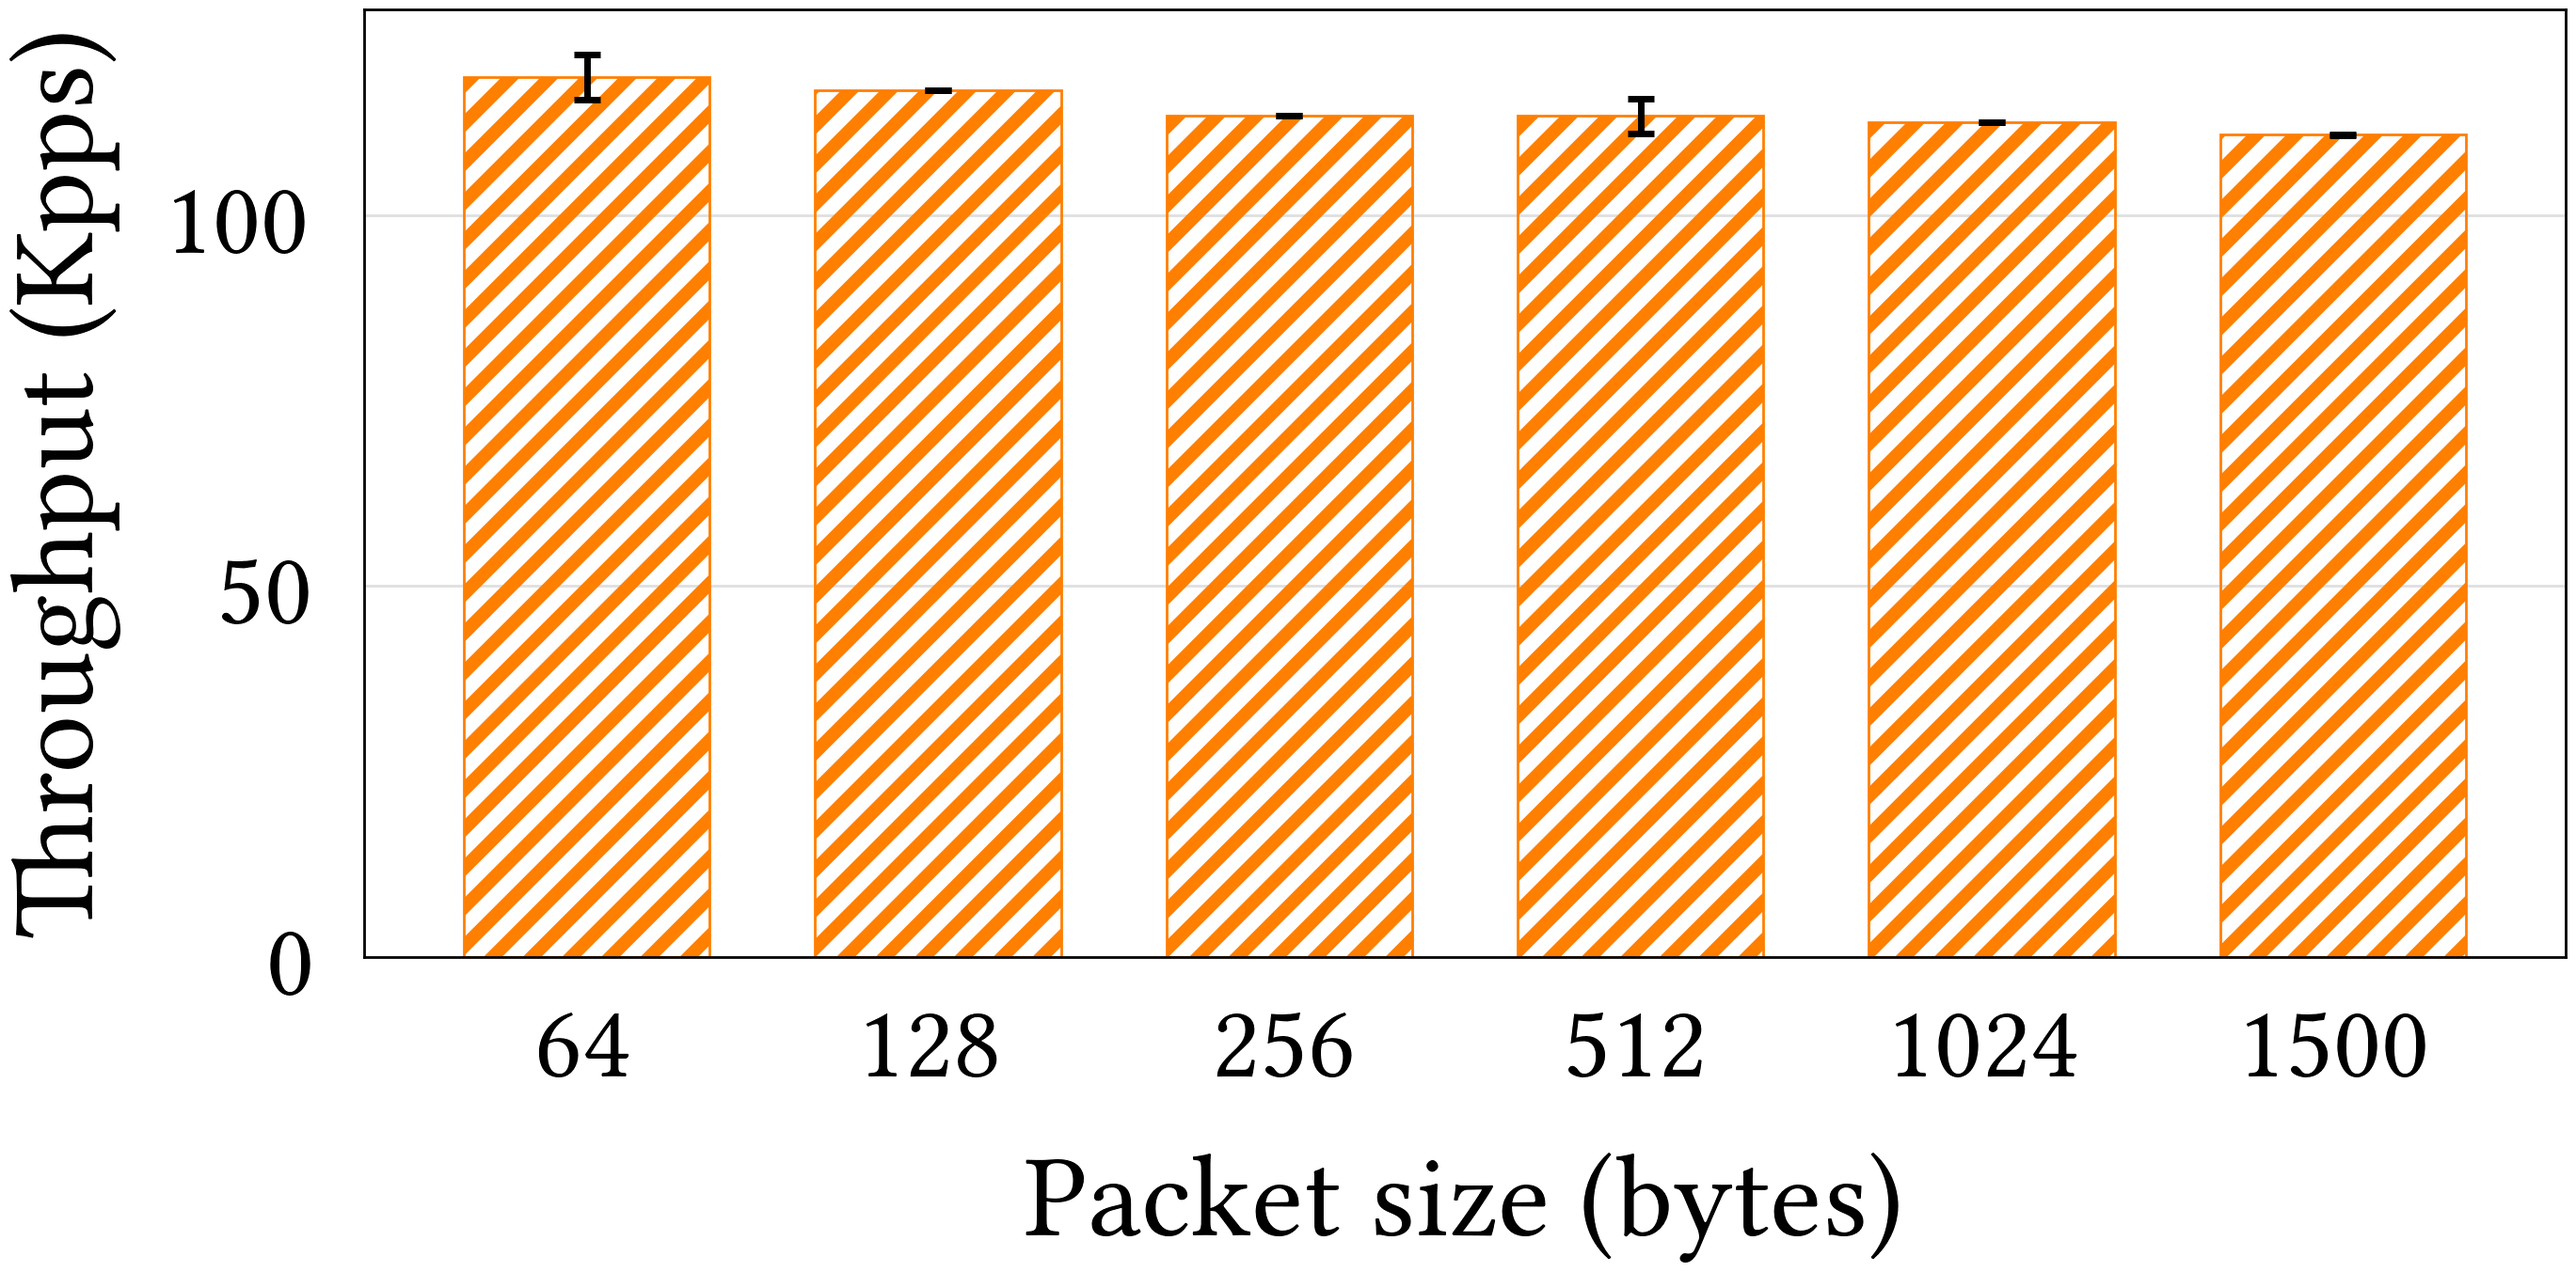
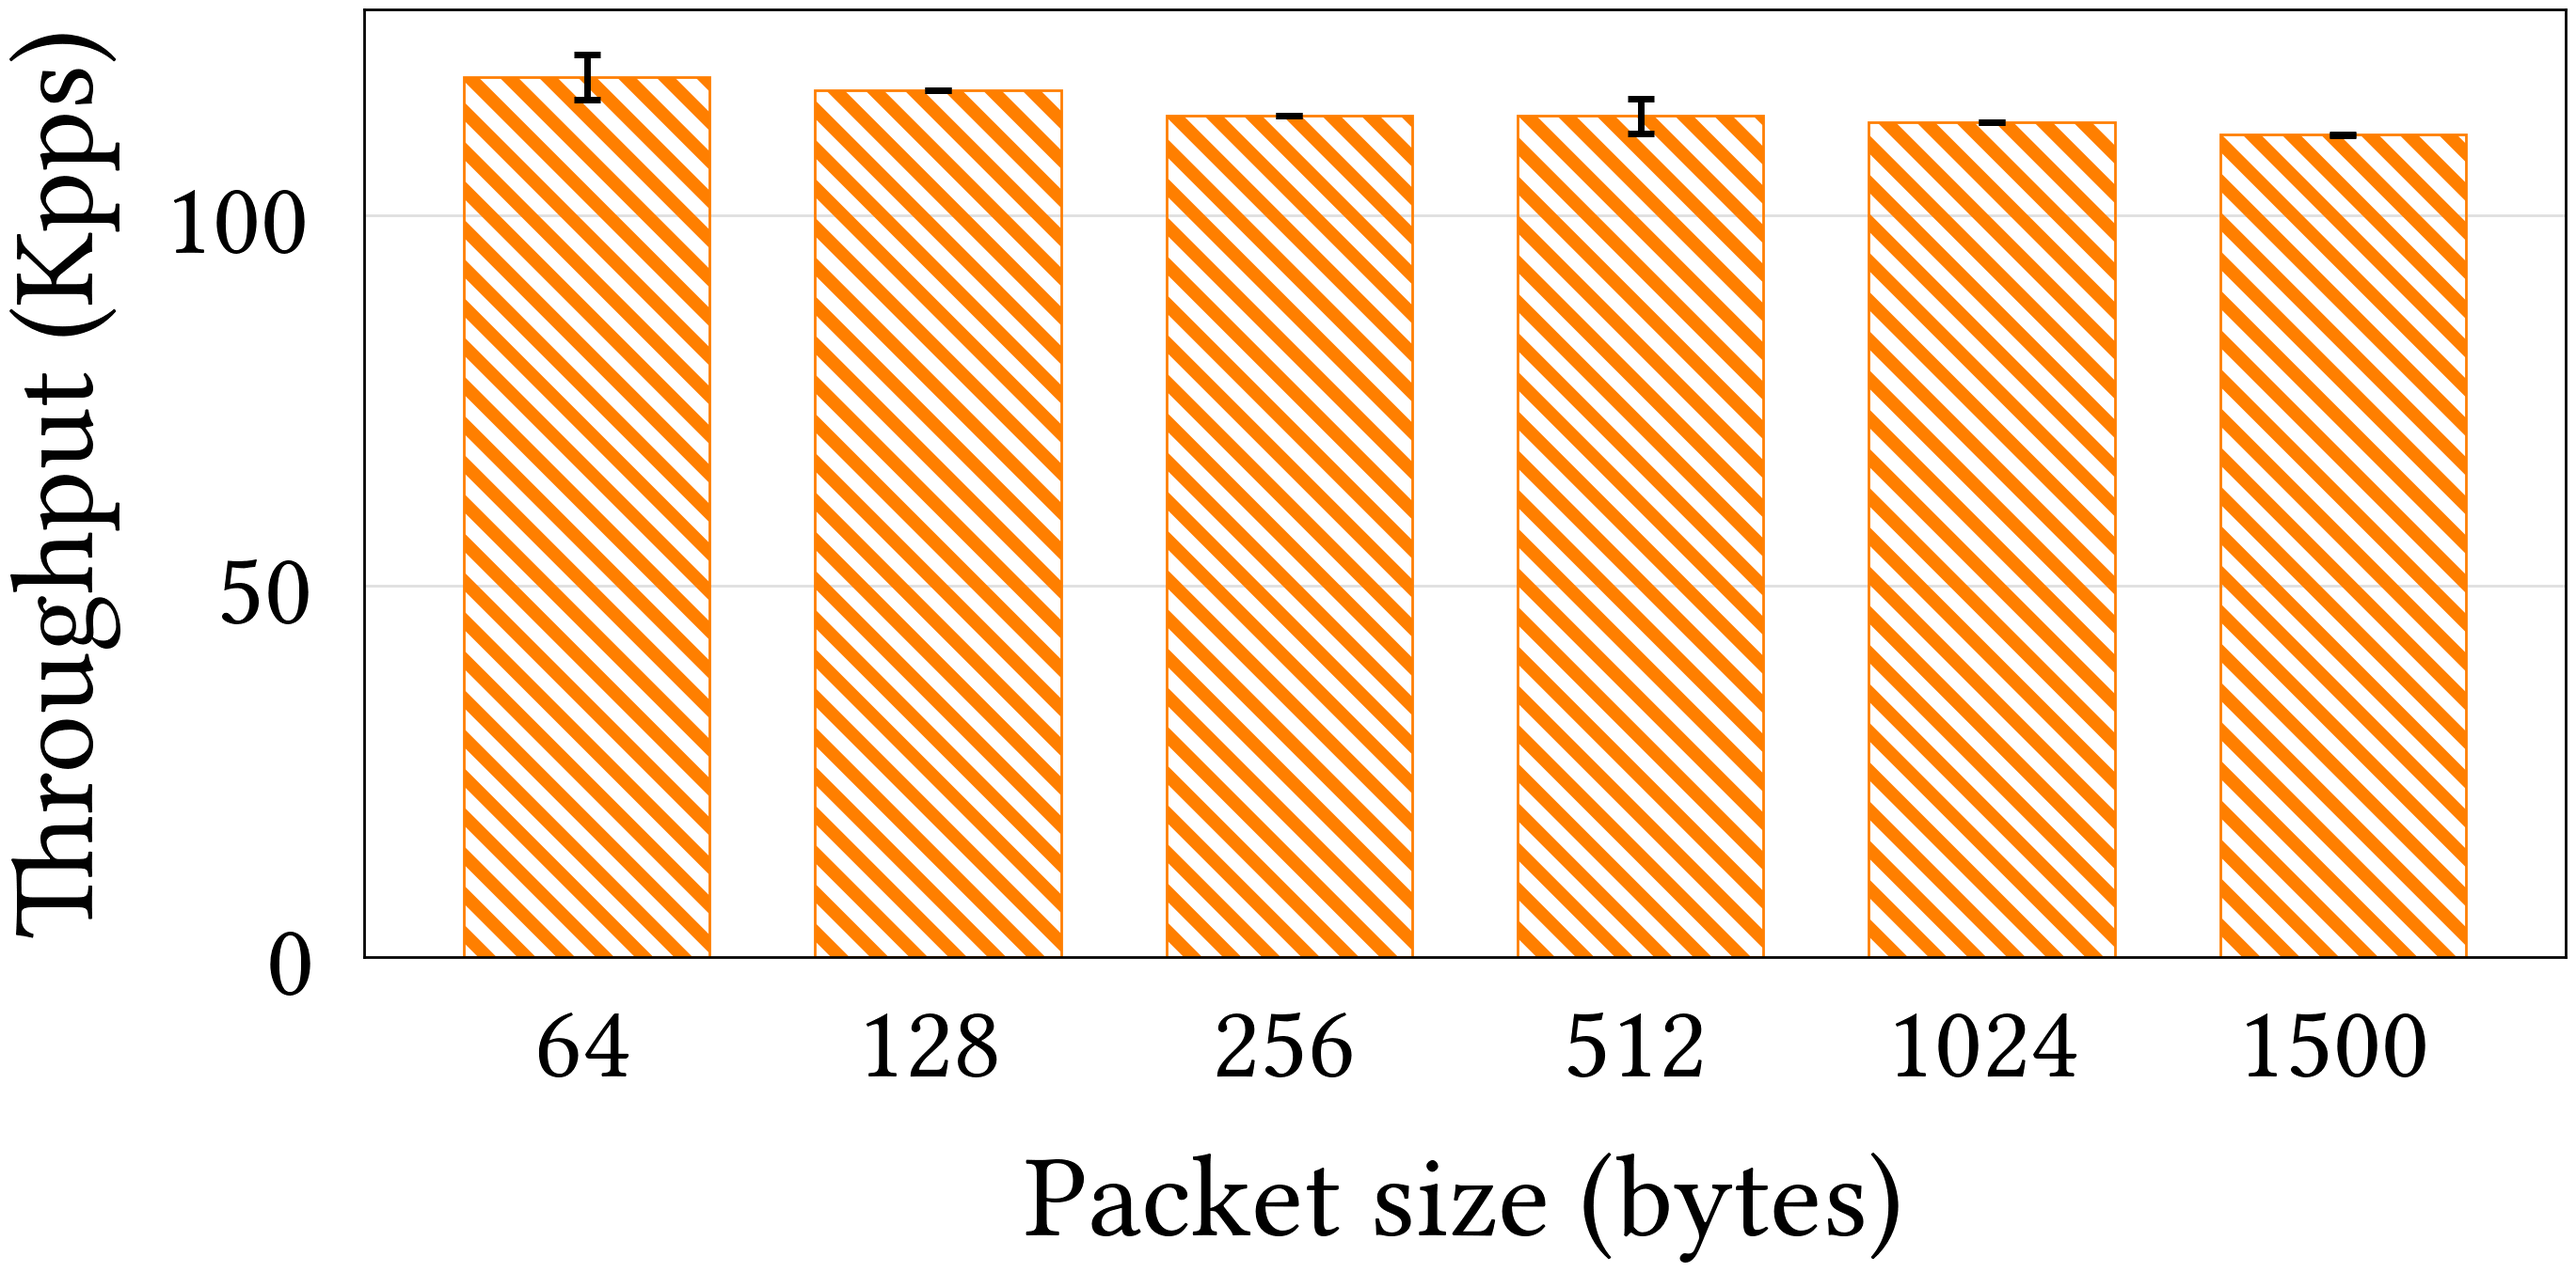
More changes

diff --git a/eval/plots.py b/eval/plots.py
@@ -94,7 +94,7 @@ palette = [
                 # we also use patterns, it should be fine.
 ]
 
-hatch_list = ['////////', '-----', '+++++++', '|||||||']
+hatch_list = ['////////', '\\\\\\\\\\\\\\\\', 'xxxxxx', '-----', '|||||||']
 
 markers_list = ['.', 'x', 'o', 'v', 's', '*']
 
@@ -380,6 +380,7 @@ def plot_throughput_under_churn_pps(
         d,
         lines_only=False,
         set_palette=[palette[color_group]],
+        set_markers_list=[markers_list[color_group]],
     )
 
     ax.set_xscale("symlog")
@@ -434,6 +435,7 @@ def plot_throughput_under_churn_bps(
         d,
         lines_only=False,
         set_palette=[palette[color_group]],
+        set_markers_list=[markers_list[color_group]],
     )
 
     ax.set_xscale("symlog")
@@ -489,6 +491,7 @@ def plot_thpt_per_pkt_sz_bps(
         d,
         xtick_labels=xtick_labels,
         set_palette=[palette[color_group]],
+        set_hatch_list=[hatch_list[color_group]],
     )
 
     fig.set_size_inches(*set_figsize)
@@ -542,6 +545,7 @@ def plot_thpt_per_pkt_sz_pps(
         d,
         xtick_labels=xtick_labels,
         set_palette=[palette[color_group]],
+        set_hatch_list=[hatch_list[color_group]],
     )
 
     fig.set_size_inches(*set_figsize)
